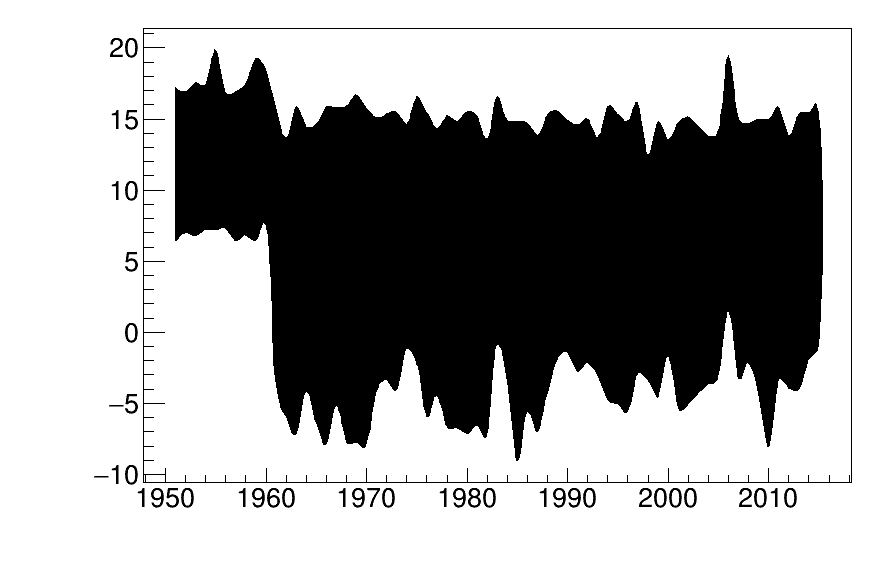
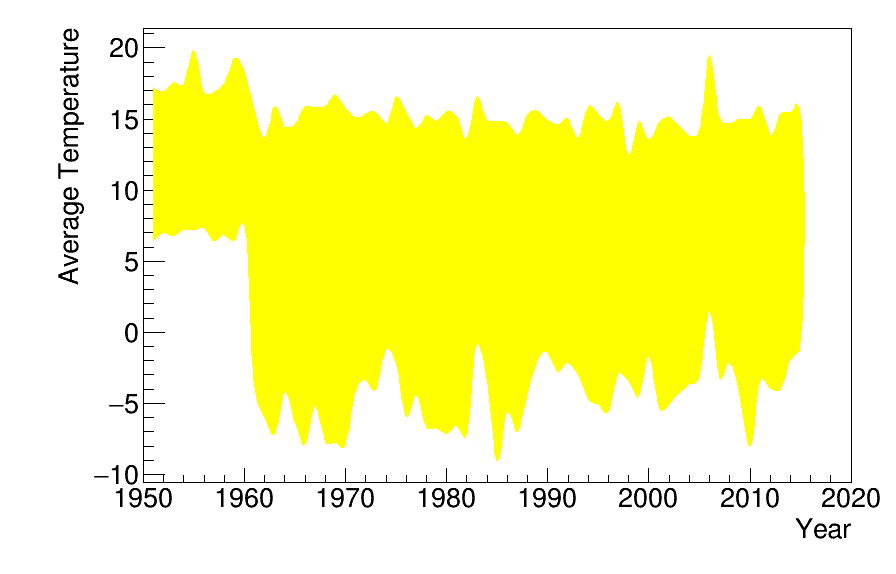
Allowed for different colouring of the graphs

diff --git a/code/cool_image.C b/code/cool_image.C
@@ -69,7 +69,7 @@ void generate_image(std::string path)
 		
 		// Save canvas as a picture
 		stringstream ss;
-		ss << "image_" << (i+1) << ".png";
+		ss << "results/image_" << (i+1) << ".png";
 		cout << "======================Path: " << ss.str() << "\n";
 		c1->SaveAs(ss.str().c_str());
 		delete c1;
@@ -130,8 +130,10 @@ TGraphErrors* createGraph(std::string path, int i)
 
 	// Create graphs
 	TGraphErrors* graph = new TGraphErrors(n,x,y,xe,ye);
-
-	graph->SetFillColor(3+i);
+	if(3+i != 10)
+		graph->SetFillColor(3+i);
+	else
+		graph->SetFillColor(25);
 	//graph->SetFillStyle(0); //4050 should be semi-transparent
 	//graph->SetFillColorAlpha(9, 0.571);
 	//graph->SetLineColorAlpha(i,1);
